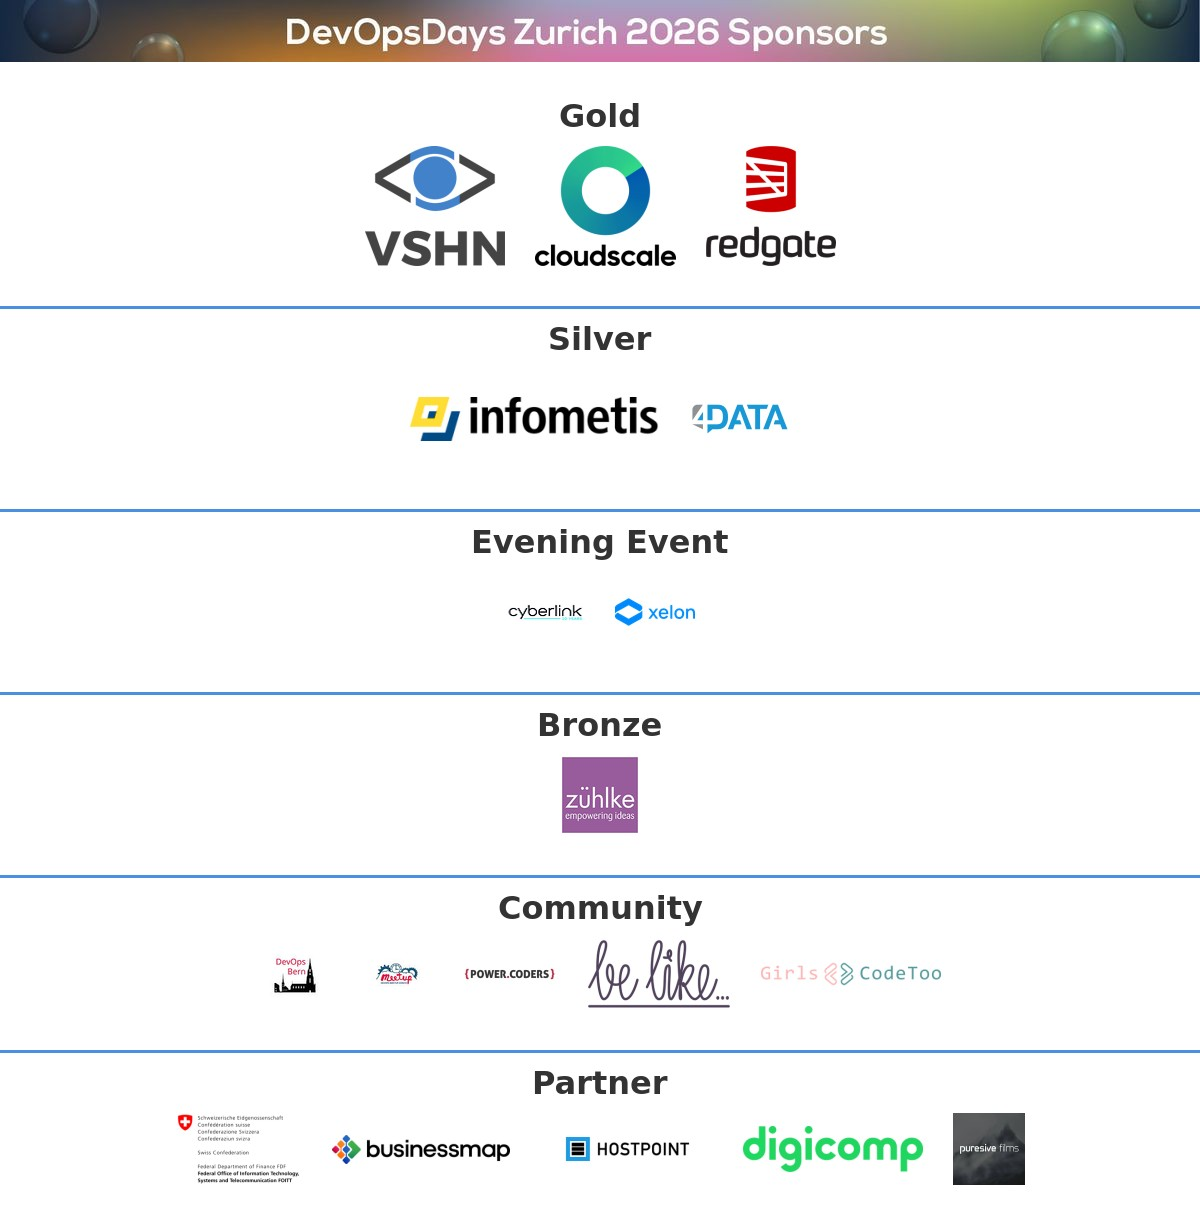
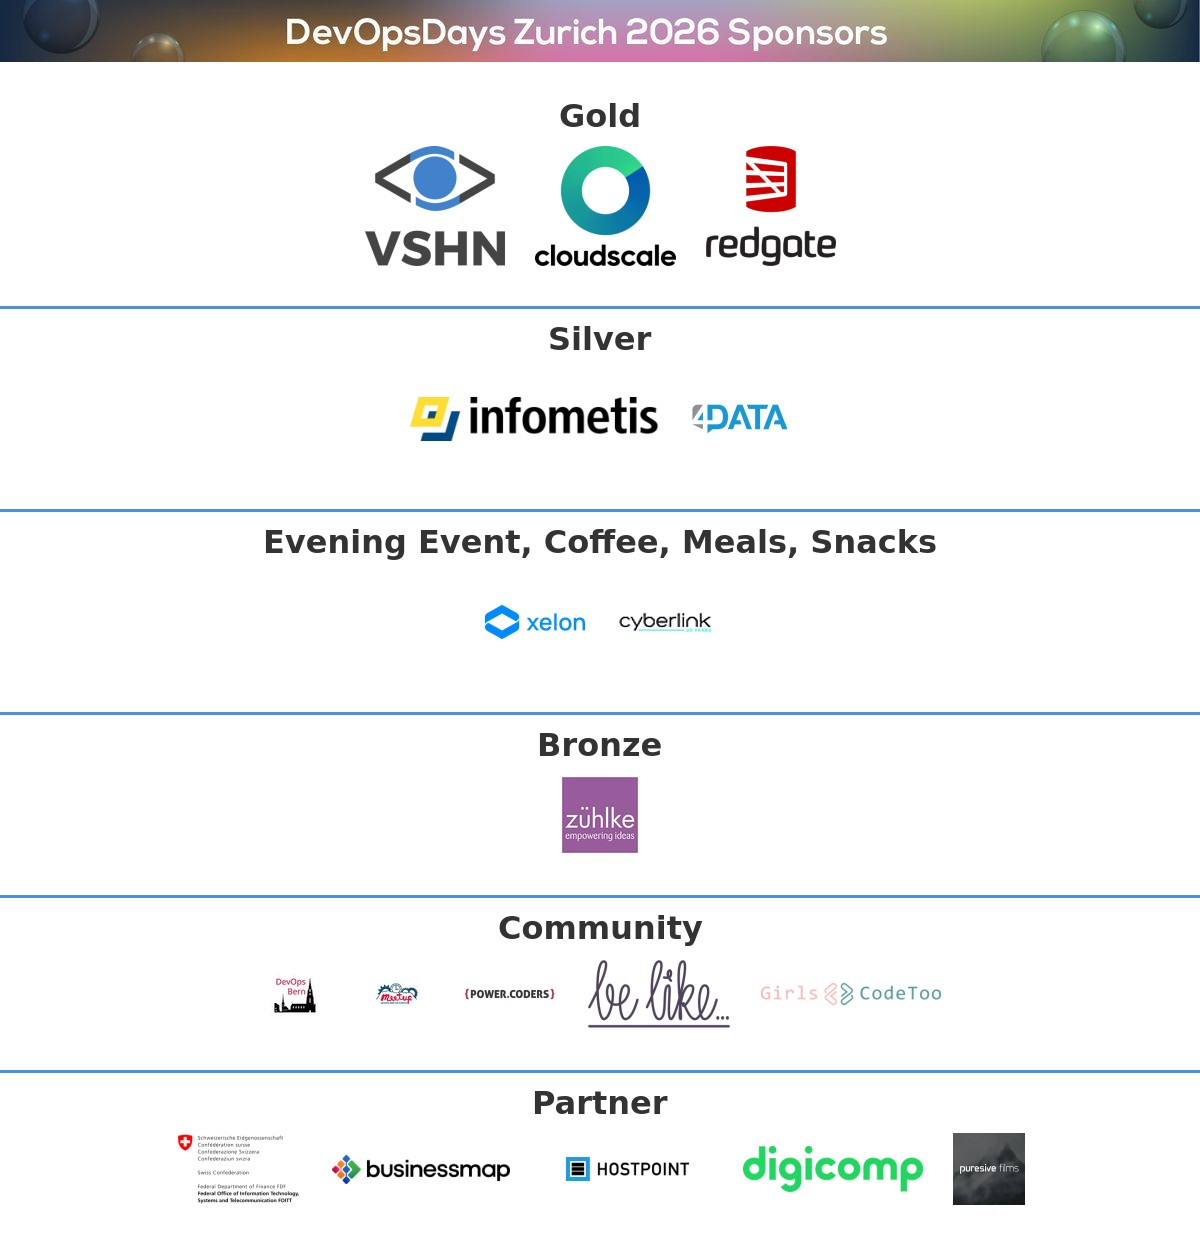
feat: Consolidate food and beverage sponsorship levels and update related logic

diff --git a/themes/devopsdays/layouts/partials/sponsors.html b/themes/devopsdays/layouts/partials/sponsors.html
@@ -43,32 +43,14 @@
         </div>
         {{ end }}
 
-        <!-- Event Sponsors (Evening, Coffee, Meals, Snacks) -->
-        {{ $evening := where .Site.Data.sponsors.sponsors "level" "evening" }}
-        {{ $coffee := where .Site.Data.sponsors.sponsors "level" "coffee" }}
-        {{ $meals := where .Site.Data.sponsors.sponsors "level" "meals" }}
-        {{ $snacks := where .Site.Data.sponsors.sponsors "level" "snacks" }}
-        {{ $eventSponsors := slice }}
-        {{ range $evening }}{{ $eventSponsors = $eventSponsors | append . }}{{ end }}
-        {{ range $coffee }}{{ $eventSponsors = $eventSponsors | append . }}{{ end }}
-        {{ range $meals }}{{ $eventSponsors = $eventSponsors | append . }}{{ end }}
-        {{ range $snacks }}{{ $eventSponsors = $eventSponsors | append . }}{{ end }}
-        {{ if $eventSponsors }}
-        {{- /* Use the first event sponsor level's name, or construct a generic "Event" label */ -}}
-        {{- $eventLabel := "Event" -}}
-        {{- if $evening -}}
-        {{- $eventLabel = index $levelToName "evening" | default "Evening Event" -}}
-        {{- else if $coffee -}}
-        {{- $eventLabel = index $levelToName "coffee" | default "Coffee" -}}
-        {{- else if $meals -}}
-        {{- $eventLabel = index $levelToName "meals" | default "Meals" -}}
-        {{- else if $snacks -}}
-        {{- $eventLabel = index $levelToName "snacks" | default "Snacks" -}}
-        {{- end -}}
+        <!-- Food and Beverage Sponsors -->
+        {{ $foodAndBeverage := where .Site.Data.sponsors.sponsors "level" "food_and_beverage" }}
+        {{ if $foodAndBeverage }}
+        {{- $packageName := index $levelToName "food_and_beverage" | default "Food and Beverage" -}}
         <div class="mb-8">
-            <h4 class="text-lg font-semibold text-center mb-6" style="color: var(--indigo-dye);">{{ $eventLabel }}</h4>
-            <div class="flex flex-wrap justify-center items-center gap-6" data-sponsor-tier="event">
-                {{ range $eventSponsors }}
+            <h4 class="text-lg font-semibold text-center mb-6" style="color: var(--indigo-dye);">{{ $packageName }}</h4>
+            <div class="flex flex-wrap justify-center items-center gap-6" data-sponsor-tier="food_and_beverage">
+                {{ range $foodAndBeverage }}
                 <a href="{{ .website }}" target="_blank" rel="noopener" class="block sponsor-logo-container">
                     <img src="{{ .logo }}" alt="{{ .name }}"
                         class="sponsor-logo sponsor-logo-event opacity-75 hover:opacity-100 transition-opacity">

diff --git a/scripts/generate-sponsor-banner.js b/scripts/generate-sponsor-banner.js
@@ -28,21 +28,17 @@ const CONFIG = {
     logoSizes: {
         gold: { width: 300, height: 120 },
         silver: { width: 250, height: 100 },
+        food_and_beverage: { width: 250, height: 100 },
         bronze: { width: 200, height: 80 },
-        evening: { width: 200, height: 80 },
-        coffee: { width: 200, height: 80 },
-        meals: { width: 200, height: 80 },
-        snacks: { width: 200, height: 80 },
         partner: { width: 180, height: 72 },
         community: { width: 180, height: 72 }
     },
 
     // Section order (titles will be loaded from sponsor_packages.json)
-    // Event sponsors (evening, coffee, meals, snacks) are grouped together
     sections: [
         { level: 'gold' },
         { level: 'silver' },
-        { levels: ['evening', 'coffee', 'meals', 'snacks'] },
+        { level: 'food_and_beverage' },
         { level: 'bronze' },
         { level: 'community' },
         { level: 'partner' }
@@ -230,14 +226,7 @@ async function generateBanner() {
         }
 
         // Determine section title from sponsor_packages.json
-        let sectionTitle;
-        if (levels.length > 1) {
-            // For grouped levels (Event Sponsors), use the first level's name or fallback
-            sectionTitle = levelToName[levels[0]] || 'Event';
-        } else {
-            // For single level, use the package name from sponsor_packages.json
-            sectionTitle = levelToName[levels[0]] || levels[0].charAt(0).toUpperCase() + levels[0].slice(1);
-        }
+        const sectionTitle = levelToName[levels[0]] || levels[0].charAt(0).toUpperCase() + levels[0].slice(1);
 
         console.log(`\n📦 Processing ${sectionTitle} (${levelSponsors.length} sponsors)...`);
 
